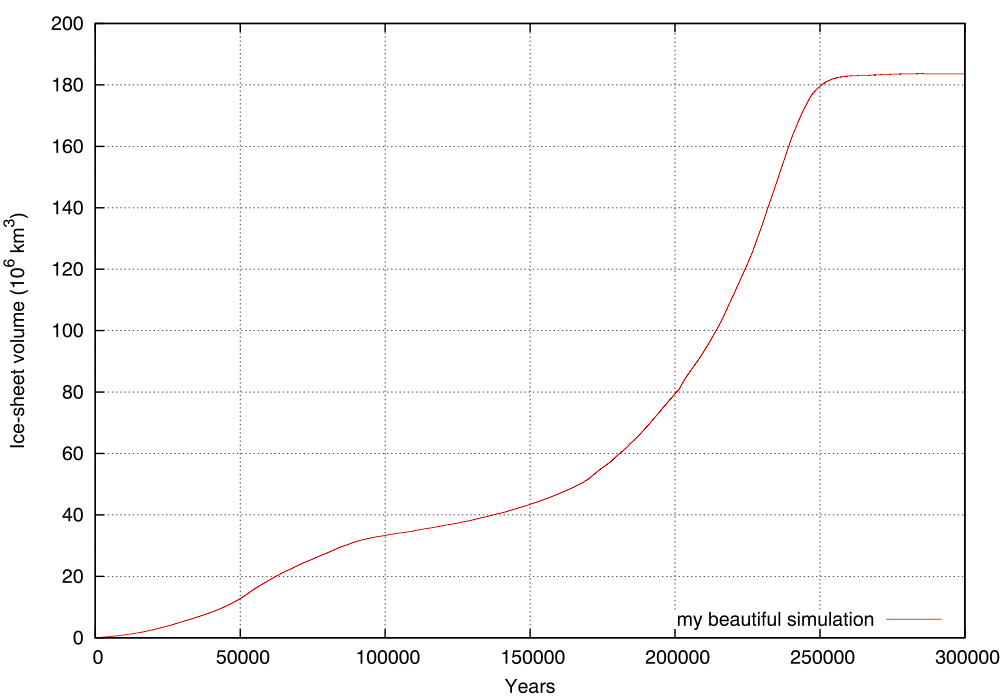
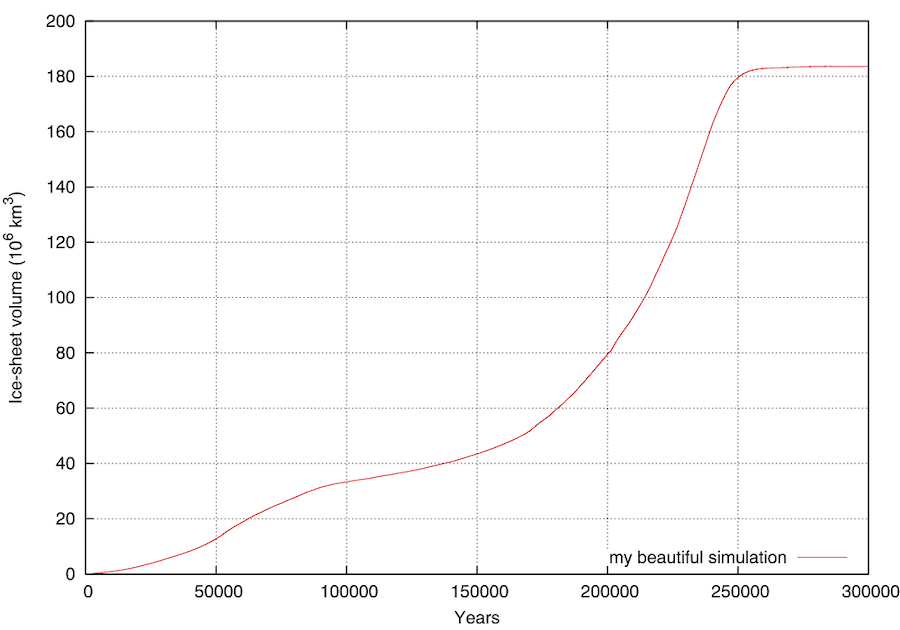
updating GRISLI howto with variable info + reducing fig size

diff --git a/_pages/GRISLI_howto.md b/_pages/GRISLI_howto.md
@@ -262,6 +262,70 @@ I also included a Python script that permits to easily handle projections etc.: 
 
 <img src="/assets/img/GRISLI_map_Python.png" alt="GRISLI map Python" class="center">
 
+Of course, it is then possible to plot the GRISLI output on top of a *global* paleogeographical map.
+
+### Overview of GRISLI output variables
+
+The NetCDF is poorly formatted. As a rapid overview of the variables, here is an old file giving some key info.
+
+```bash
+0       var     4       coeff.cpt       Variable_code
+1       Scoul   5       Surf_Pollard.cpt        Surface elevation (m) (Surf_Pollard.cpt glace_bleu.cpt gray_ice_white3.cpt)
+2       H       5       thick-tof.cpt   Ice thickness (m) (thick-wysiwyg3.cpt)gray_ice_white3.cpt
+3       B       4       socle-antar.cpt Bed elevation (m)
+4       MK      4       posxy.cpt       Masque
+5       HDOT    2       hdot.cpt        hdot (m/an)
+6       ICE     4       posxy.cpt       Masque glace -ICE-
+10      Bm      4       BM.cpt  BM-snowball.cpt        Bilan de masse (m/an)
+11      ACC     4       Acc-Tof.cpt             Accumulation rate (m water eq.)
+12      ABL     4       Abl-Tof.cpt     Ablation rate (m water eq.)
+13      Calv    4       Calv.cpt        Calving (reste a definir)
+14      DHDT    4       hdot.cpt        dhdt lagrangien (m/an)
+15      PDD     4       pdd.cpt         Postive Degree Day
+16      SIMAX   4       simax.cpt       Refreezed ice (m)
+18      Tann    4       Tann.cpt    Tann-snowball.cpt   Annual Surf. Temperature (<b0>C)
+19      Tsumm   4       Tjja.cpt        Summer Surf. Temperature (<b0>C)
+20      TB      2       Tbasale.cpt     Basal Temperature (<b0>C)
+23      phi     2       geophy.cpt      Flux geothermique (mW/m2)
+24      phid    2       geophy.cpt      Flux deformation (mW/m2)
+25      BMEL    2       bmelt-hi.cpt    Basal melting rate (m water eq.)
+30      UXB     2       vitesses-direction.cpt uxbar
+31      UYB     2       vitesses-direction.cpt uybar
+32      UX1/2   2       vitesses-direction.cpt uxbar 1/2
+33      UY1/2   2       vitesses-direction.cpt uybar 1/2
+34      UXSL    2       vitesses-direction.cpt ux sliding
+35      UYSL    2       vitesses-direction.cpt uy sliding
+40      FROTMX  1       frotm.cpt       frotmx (bar)
+41      FROTMY  1       frotm.cpt       frotmy (bar)
+42      TOBMX   1       tob.cpt       tobmx (bar)
+43      TOBMY   1       tob.cpt       tobmy (bar)
+44      Taushelf 2      tob.cpt contrainte moyenne shelves (bar)
+45      EPSXX   2       colepsfin.cpt   epsilon xx (a-1)
+46      EPSYY   2       colepsfin.cpt   epsilon yy (a-1)
+47      EPSXY   2       colepsfin.cpt   epsilon xy (a-1)
+48      EPS     2       colepsfin.cpt   epsilon (a-1)
+50      PVI     3       pvi.cpt         pvi
+60      HWAT    1       hwater-Tof.cpt  Basal water  hydraulic height (m)
+61      HDWAT   1       hwatdot.cpt     Basal water evol (m/an)
+62      PGX     4       pgxy-fin.cpt    Basal hydro. grad./x
+63      PGY     4       pgxy-fin.cpt    Basal hydro. grad./y
+64      KOND    1       Basal   hydro. conductivity
+68      NFMX    1       colnefmx.cpt    Effective Pressure (Bar)
+69      NFMY    1       colnefmx.cpt    Effective Pressure (Bar)
+70      POSX    4       posxy.cpt       Posx: 0-ground 1-stream 2-ile 3-flot
+71      POSY    4       posxy.cpt       Posy: 0-ground 1-stream 2-ile 3-flot
+100     DIVERS  4       divers.cpt      fichier colonne
+-1      GS      2       Surface elevation grad. (1)
+-30     UMAG    2       speed.cpt       Ice velocities (m/a)
+-34     Uslid   2       speed.cpt       Sliding velocity (m/a)
+-68     NEFFM   1       colnefmx.cpt    Effective Pressure (Bar)
+-40     FROTM   1       frotm.cpt       Basal  drag (bar ?)
+-42     TOB     1       tob.cpt         taub
+-62     PGMAG   4       pgmag-fin.cpt   hydro. pressure. gradient (Pa/m)
+-130    FLUX    2       flux.cpt        Ice Flux (1e2 km3.a-1)
+-162    FLUXW   1       fluxwat.cpt     Basal water flux (m3.a-1)
+```
+
 # Known issues
 
 ## Colinear vectors
